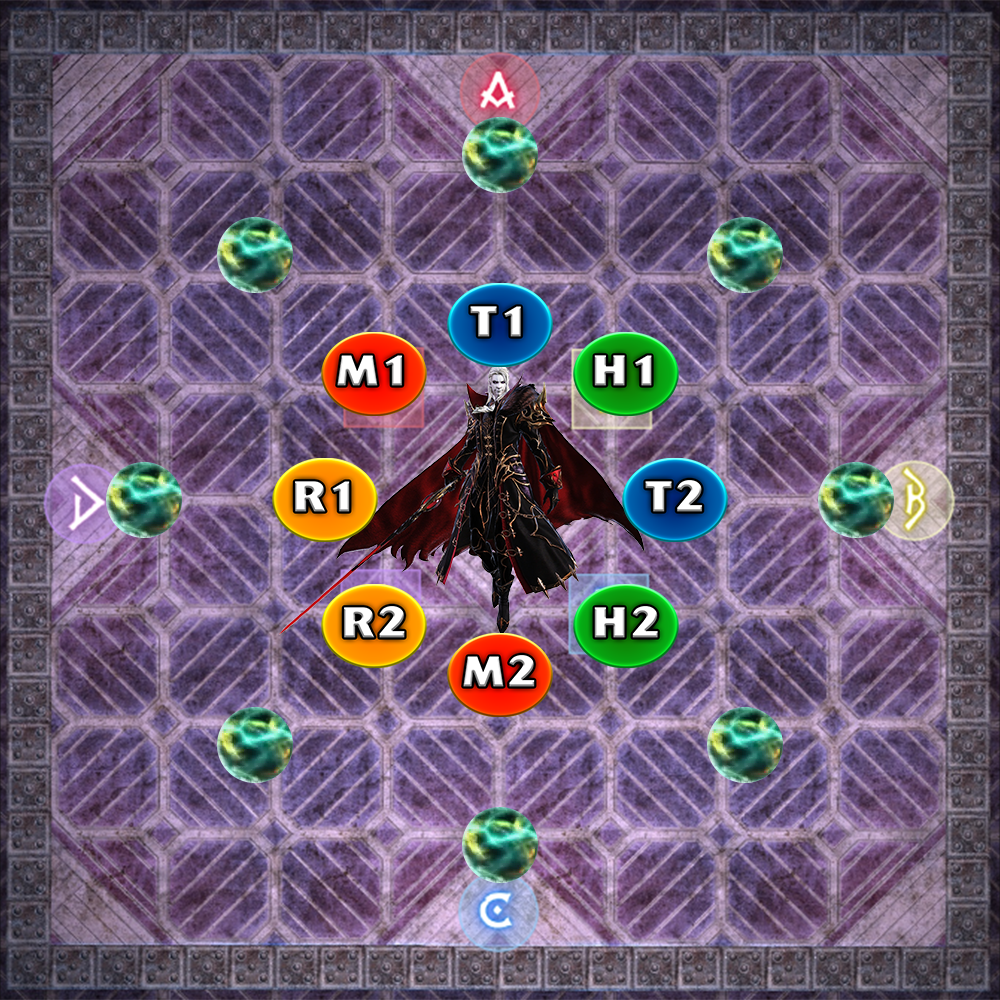
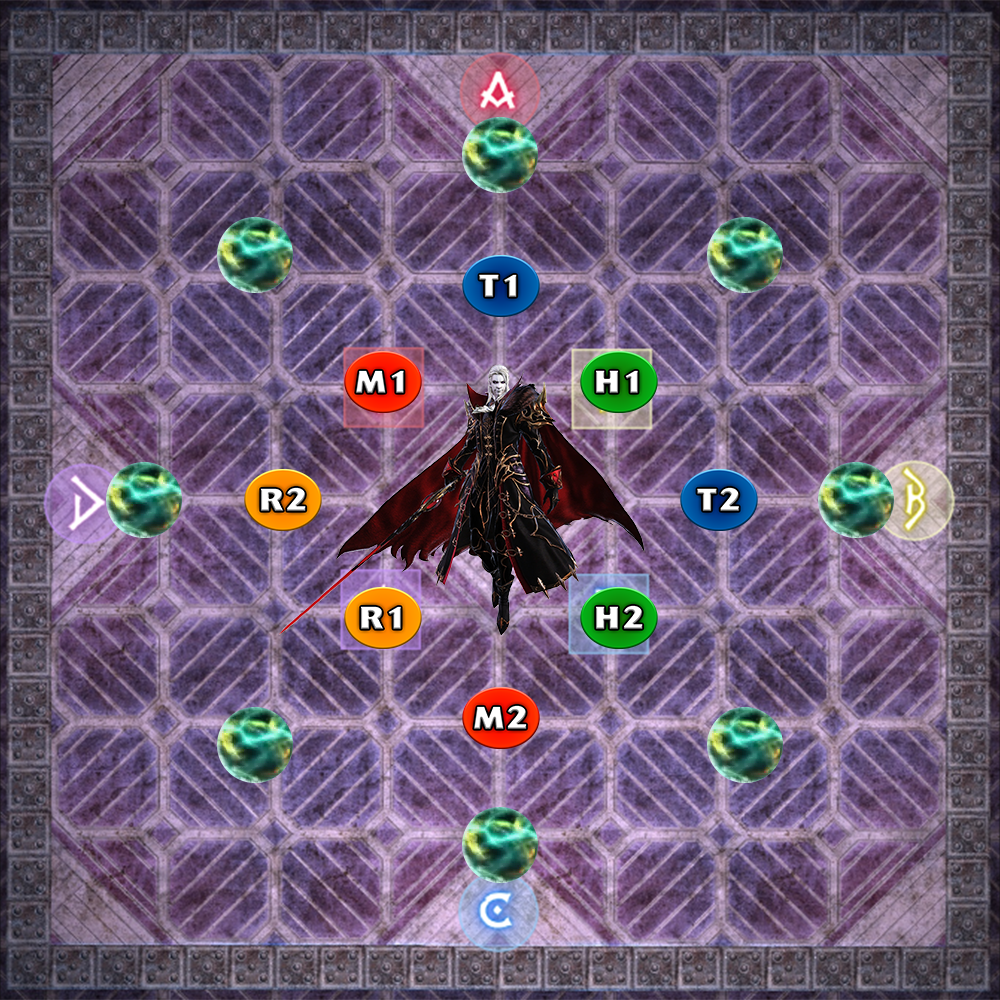
Added some preliminary P4S P2 content

diff --git a/guides/p4sp2.html b/guides/p4sp2.html
@@ -1,0 +1,183 @@
+<!DOCTYPE html>
+<html lang="en">
+
+<head>
+	<link rel="shortcut icon" href="https://roboloid.github.io/ffxiv/favicon.ico">
+	<link rel="stylesheet" href="./../styles.css">
+	<link rel="stylesheet" href="./../navigation.css">
+	<script src="https://ajax.googleapis.com/ajax/libs/jquery/3.6.1/jquery.min.js"></script> 
+
+	<!-- Metadata start -->
+	<html prefix="og: http://ogp.me/ns#"></html>
+	<meta property="og:title" content="Asphodelos: The Fourth Circle (Savage)">
+	<meta property="og:description" content="A guide for Asphodelos: The Fourth Circle (Savage).">
+	<meta property="og:site_name" content="Roboloid's FFXIV Page" >
+	<meta property="og:image" content="https://roboloid.github.io/ffxiv/images/p4sp2/header.png">
+	<!-- Metadata end -->
+
+	<title>Asphodelos: The Fourth Circle (Savage)</title>
+</head>
+
+<body>
+	<script>
+        $(function(){
+            $("#navbar").load("./../navigation.html");
+        });
+    </script>
+
+    <div id="navbar">
+
+    </div>
+
+	<img src="./../images/p4sp2/header.png">
+
+	<h1>Asphodelos: The Fourth Circle (Savage) Phase 2</h1>
+
+	<p>Asphodelos: The Fourth Circle (Savage) is a high-end duty added in patch 6.05.
+		The fight can be unlocked by speaking to Nemjiji in Labyrinthos (8.4, 27.4) after completing Asphodelos: The Fourth Circle.
+	</p>
+
+	<p>The minimum ilvl required to enter this fight is 580.</p>
+
+	<h2>Hesperos's Abilities</h2>
+	<ul>
+		<li><b><u>Searing Stream</u></b>: A heavy raidwide attack.</li>
+		<li><b><u>Nearsight</u></b>: Two AOEs that target the two closest players.</li>
+		<li><b><u>Farsight</u></b>: Two AOEs that target the two farthest players.</li>
+		<li><b><u>Demigod Double</u></b>: An AOE tankbuster that must be shared by two tanks. One tank can take it with their invulnerability.</li>
+	</ul>
+
+	<p>Phase 2 is split into 6 big mechanics: Act 1, Act 2, Act 3, Act 4, Finale, and Curtain Call. The toolboxes created by Zetherea Maxwell are very helpful, and I will be linking them throughout the guide.</p>
+
+
+	<h2 id="act1">Akanthai: Act 1</h2>
+	<div class="hintbox">
+		<a href="https://ff14.toolboxgaming.space/?id=288349127241461&preview=1" target="_blank"><b>Act 1 Toolbox</b></a>
+	</div>
+	<p>Hesperos will telegraph eight towers and four large AOEs, then place a thorn over them to hide them.</p>
+	<p>After a <b>Searing Stream</b> raidwide, Hesperos will cast <b>Wreath of Thorns</b> and tether to the thorns in the order they will be resolved. The order is two N/S or E/W AOEs, the eight towers, then the
+		last two E/W or N/S AOEs. If he tethers to the N/S thorns first, have the party be E/W to avoid them, and vice versa if he tethers to the E/W thorns first. After the first explosion, take your intercard
+		towers. After the towers are resolved, keep moving to the next cardinal to dodge the remaining two AOEs.</p>
+	<p>After the thorns resolve, Hesperos will cast <b>Nearsight</b> or <b>Farsight</b>. Ensure that the tanks are the two closest or two farthest players to take the AOEs.</p>
+
+	<h2 id="act2">Akanthai: Act 2</h2>
+	<div class="hintbox">
+		<a href="https://ff14.toolboxgaming.space/?id=048342144241461&preview=1" target="_blank"><b>Act 2 Toolbox</b></a>
+	</div>
+	<p>Hesperos will spawn a tower and an AOE at each cardinal, with the tower on the left and the AOE on the right (looking at the wall from the center of the field). Then he will cover them up with
+		<b>Wreath of Thorns</b>. He will tether to two towers at opposite cardinals, then two AOEs at opposite cardinals. Then he will tether to the two other AOEs and towers. The opposingcardinals that have their
+		tower tethered first (the left thorn) are the safe cardinals you want to go to first.</p>
+	<p>When <b>Wreath of Thorns</b> finishes casting, orbs will spawn on top of every player (except one tank) and all players will be tethered in role pairs.</p>
+	<ul>
+		<li>One healer + one tank will be tethered, with the healer having a purple orb and the tank having nothing.</li>
+		<li>One healer + one tank will be tethered, with both players having fire orbs over them.</li>
+		<li>One DPS + one DPS will be tethered, with both players having wind orbs over them.</li>
+		<li>One DPS + one DPS will be tethered, with both players having fire orbs over them.</li>
+	</ul>
+	<p>When players with a purple orb stretch their tether, everyone will take light raidwide damage and get a 2 second Magic Vulnerability debuff.</p>
+	<p>When players with a fire orb stretch their tether, a stack AOE will detonate on each of them. Two other players need to stack with each fire tether stretcher for a total of three people in the stack.
+		I use a priority system for PF and mark all DPS 1-4, and the DPS with the lower number goes clockwise while the DPS with the higher number goes counterclockwise.
+	</p>
+	<p>Players with wind orbs should not stretch their tether, or they will die.</p>
+	<p>To resolve this mechanic, everyone except the purple healer and the nothing tank should stack in the center. The purple supports should stretch their tether as soon as possible for the Magic Vulnerability to
+		apply and fall off before fire stacks need to happen. Hesperos will cast <b>Dark Design</b>, and when the cast finishes, AOEs will be baited at everyone's position, hence why we want most of the party to
+		stack at the center. When the AOEs are baited, everyone will move.</p>
+	<p>For the first movement, where players go will depend on their orb and whether the safe cardinals are N/S or E/W.</p>
+	<ul>
+		<li><img src="./../images/common/TankRole.png" class="imgIcon">The nothing tank should move North or West to stretch, then take a tower after the tether breaks.</li>
+		<li><img src="./../images/common/HealerRole.png" class="imgIcon">The purple healer should move South or East to stretch, then take a tower after the tether breaks.</li>
+		<li><img src="./../images/common/TankRole.png" class="imgIcon">The fire tank should move South or East to stretch their tether.</li>
+		<li><img src="./../images/common/HealerRole.png" class="imgIcon">The fire healer should move North or West to stretch their tether.</li>
+		<li><img src="./../images/common/DPSRole.png" class="imgIcon">The two fire DPSes should move together South or East and stack on the fire tank who is stretching.</li>
+		<li><img src="./../images/common/DPSRole.png" class="imgIcon">The two wind DPSes should move together North or West and stack on the fire healer who is stretching.</li>
+	</ul>
+	<p>After the support fire stacks resolve and the first two towers are soaked, the second movement will happen.</p>
+	<ul>
+		<li><img src="./../images/common/TankRole.png" class="imgIcon">The nothing tank should move counterclockwise to soak the DPS's fire with the other tank.</li>
+		<li><img src="./../images/common/HealerRole.png" class="imgIcon">The purple healer should move clockwise to take a tower.</li>
+		<li><img src="./../images/common/TankRole.png" class="imgIcon">The fire tank should move clockwise to soak the DPS's fire with the other tank.</li>
+		<li><img src="./../images/common/HealerRole.png" class="imgIcon">The fire healer should move clockwise to take a tower.</li>
+		<li><img src="./../images/common/DPSRole.png" class="imgIcon">The two fire DPSes should split, with one going clockwise and the other going counterclockwise in order to stretch their tether.</li>
+		<li><img src="./../images/common/DPSRole.png" class="imgIcon">The two wind DPSes should move together clockwise to soak the DPS's fire.</li>
+	</ul>
+	<p>After the last towers are taken, the wind tether will expire and resolve harmlessly.</p>
+	<p>After a time, Hesperos will cast <b>Ultimate Impulse</b>, which is deals heavy raidwide damage. The damage is lethal if thorns or tethers are left unresolved.</p>
+
+	<h2 id="act3">Akanthai: Act 3</h2>
+	<div class="hintbox">
+		<a href="https://ff14.toolboxgaming.space/?id=619341940341461&preview=1" target="_blank"><b>Act 3 Toolbox</b></a>
+	</div>
+	<p>Hesperos will telegraph eight towers (four on the left, four on the right) and a knockback that comes from the center of the field. He will then cover them with <b>Wreath of Thorns</b> and tether
+		to four towers, then to the knockback, then to another four towers.</p>
+	<p>Hesperos will cast <b>Kothornos Kick</b> and jump to the farthest player and do an AOE, inflicting a Magic Vulnerability debuff. Anyone else hit by the AOE will be knocked back into the kill wall,
+		so give them space. After <b>Kothornos Kick</b>, Hesperos will do three conal cleaves that target the closest three players, inflicting a Magic Vulnerability debuff. The kick baiter cannot take
+		a conal cleave, since they already have Magic Vulnerability. As soon as they bait the kick, they should move towards the center to avoid the three cleaves.</p>
+	<p>The kick baiter and the three conal baiters should go towards the towers being resolved second, that way four other players can take the first set of towers without worrying about kicks and conal cleaves.</p>
+	<p>After the first towers and triple conal cleaves go off, the knockback will happen. The first tower group can use their knockback invuln after their tower goes off, while the second tower group can use
+		their knockback invuln after the triple conal cleaves go off.</p>
+	<p>After the knockback, the first tower group should have one player bait another <b>Kothornos Kick</b> to the opposite side of the field (where the first towers resolved). Like before, three other
+		players will bait triple conal cleaves. The second tower group will take their four towers while this is happening.</p>
+	<p>After all eight towers finish going off, there will be a <b>Nearsight</b> or <b>Farsight</b>, followed by <b>Heart Stake</b>. <b>Heart Stake</b> will attack the two players with the highest
+		and second highest aggro and apply a DoT, one at a time. One tank can take it with their invulnerability by having the off tank Provoke after the main tank is hit.</p>
+
+	<h2 id="act4">Akanthai: Act 4</h2>
+	<div class="hintbox">
+		<a href="https://ff14.toolboxgaming.space/?id=049343003341461&preview=1" target="_blank"><b>Act 4 Toolbox</b></a>
+	</div>
+
+
+
+	<p>Here is a video example where supports need to take tethers and DPS need to take virus.</p>
+	<video width="720" height="480" autoplay loop muted>
+		<source src="./../images/p4sp1/Tethers_and_Virus_Example.mp4" type="video/mp4"/>
+	</video>
+
+
+
+
+
+
+	<div class="hintbox" id="timeline">
+		<b>Timeline</b>
+		<ul>
+			<li>Searing Stream</li>
+			<li><b><a href="#act1">Akanthai: Act 1</a></b></li>
+			<li>Searing Stream</li>
+			<li>Wreath of Thorns</li>
+			<li>Nearsight / Farsight</li>
+			<li><b><a href="#act2">Akanthai: Act 2</a></b></li>
+			<li>Demigod Double</li>
+			<li>Wreath of Thorns</li>
+			<li>Dark Design</li>
+			<li>Ultimate Impulse</li>
+			<li><b><a href="#act3">Akanthai: Act 3</a></b></li>
+			<li>Wreath of Thorns</li>
+			<li>Kothornos Kick</li>
+			<li>Nearsight / Farsight</li>
+			<li>Heart Stake</li>
+			<li><b><a href="#act4">Akanthai: Act 4</a></b></li>
+			<li>Searing Stream</li>
+			<li>Wreath of Thorns</li>
+			<li>Searing Stream</li>
+			<li>Ultimate Impulse</li>
+			<li>Searing Stream</li>
+			<li><b><a href="#finale">Akanthai: Finale</a></b></li>
+			<li>Wreath of Thorns</li>
+			<li>Fleeting Impulse</li>
+			<li>Wreath of Thorns</li>
+			<li>Nearsight / Farsight</li>
+			<li>Searing Stream</li>
+			<li>Demigod Double</li>
+			<li><b><a href="#curtaincall">Akanthai: Curtain Call</a></b></li>
+			<li>Hell's Sting</li>
+			<li>Hell's Sting</li>
+			<li>Ultimate Impulse</li>
+			<li>Hell's Sting</li>
+			<li>Hell's Sting</li>
+			<li>Ultimate Impulse</li>
+			<li>Ultimate Impulse (Enrage)</li>
+		</ul>
+	</div>
+</body>
+
+</html lang="en">

diff --git a/styles.css b/styles.css
@@ -42,3 +42,10 @@ img {
 	margin: 20px 0px;
 	max-width: 100%;
 }
+
+.imgIcon {
+	height: 1em;
+	margin: 0px;
+	margin-right: 5px;
+	vertical-align: middle;
+}
